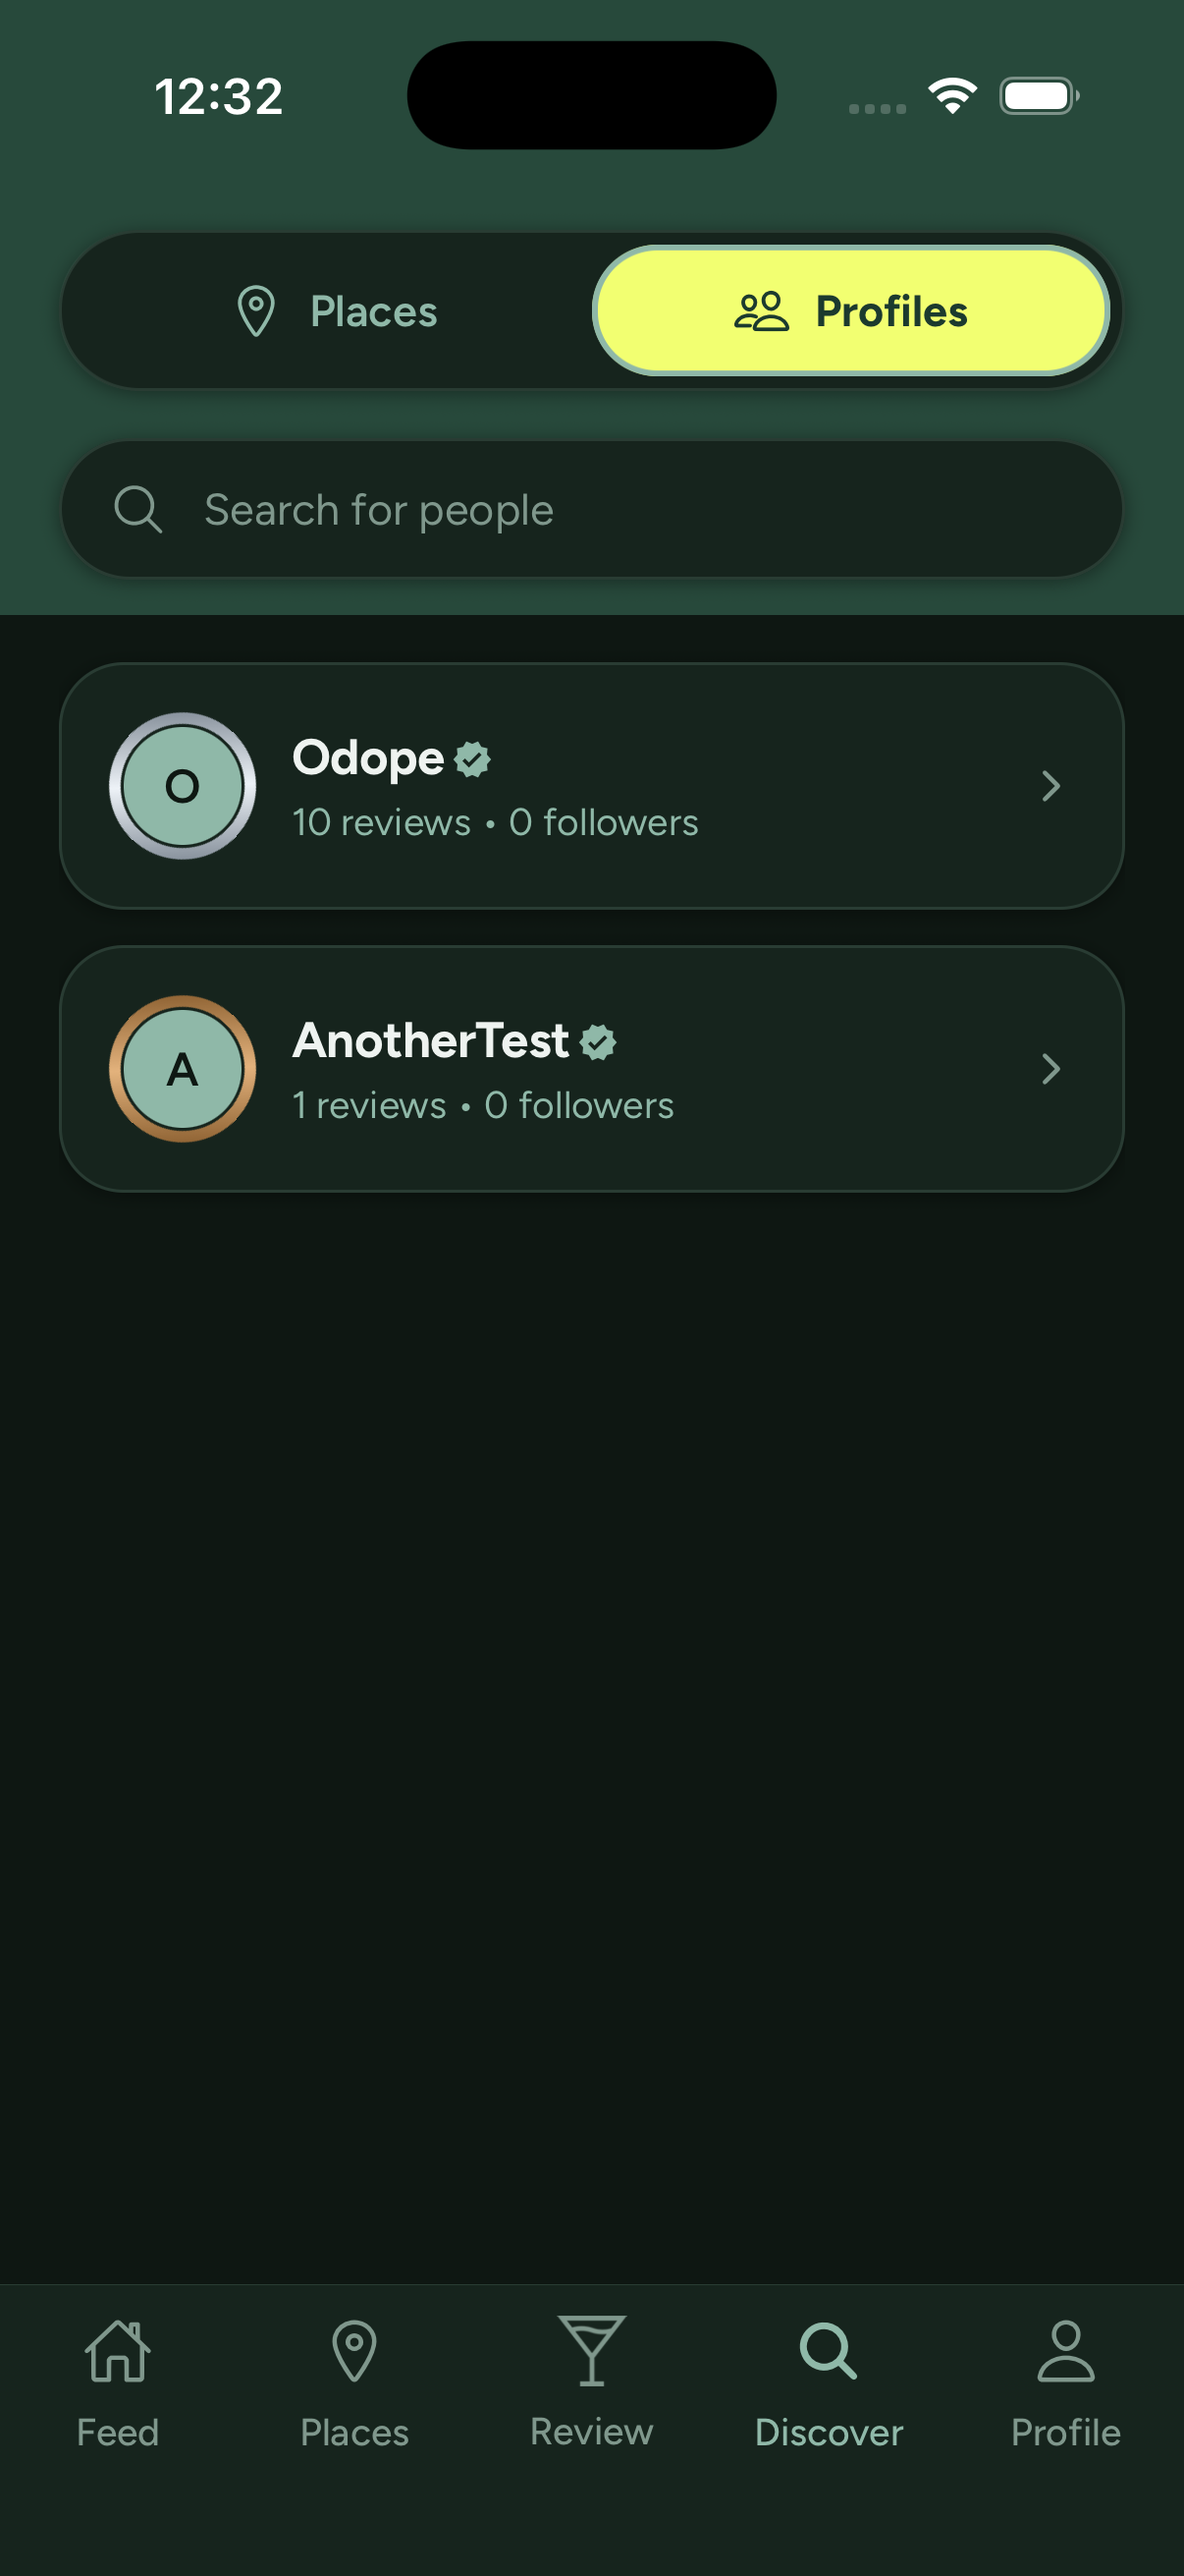
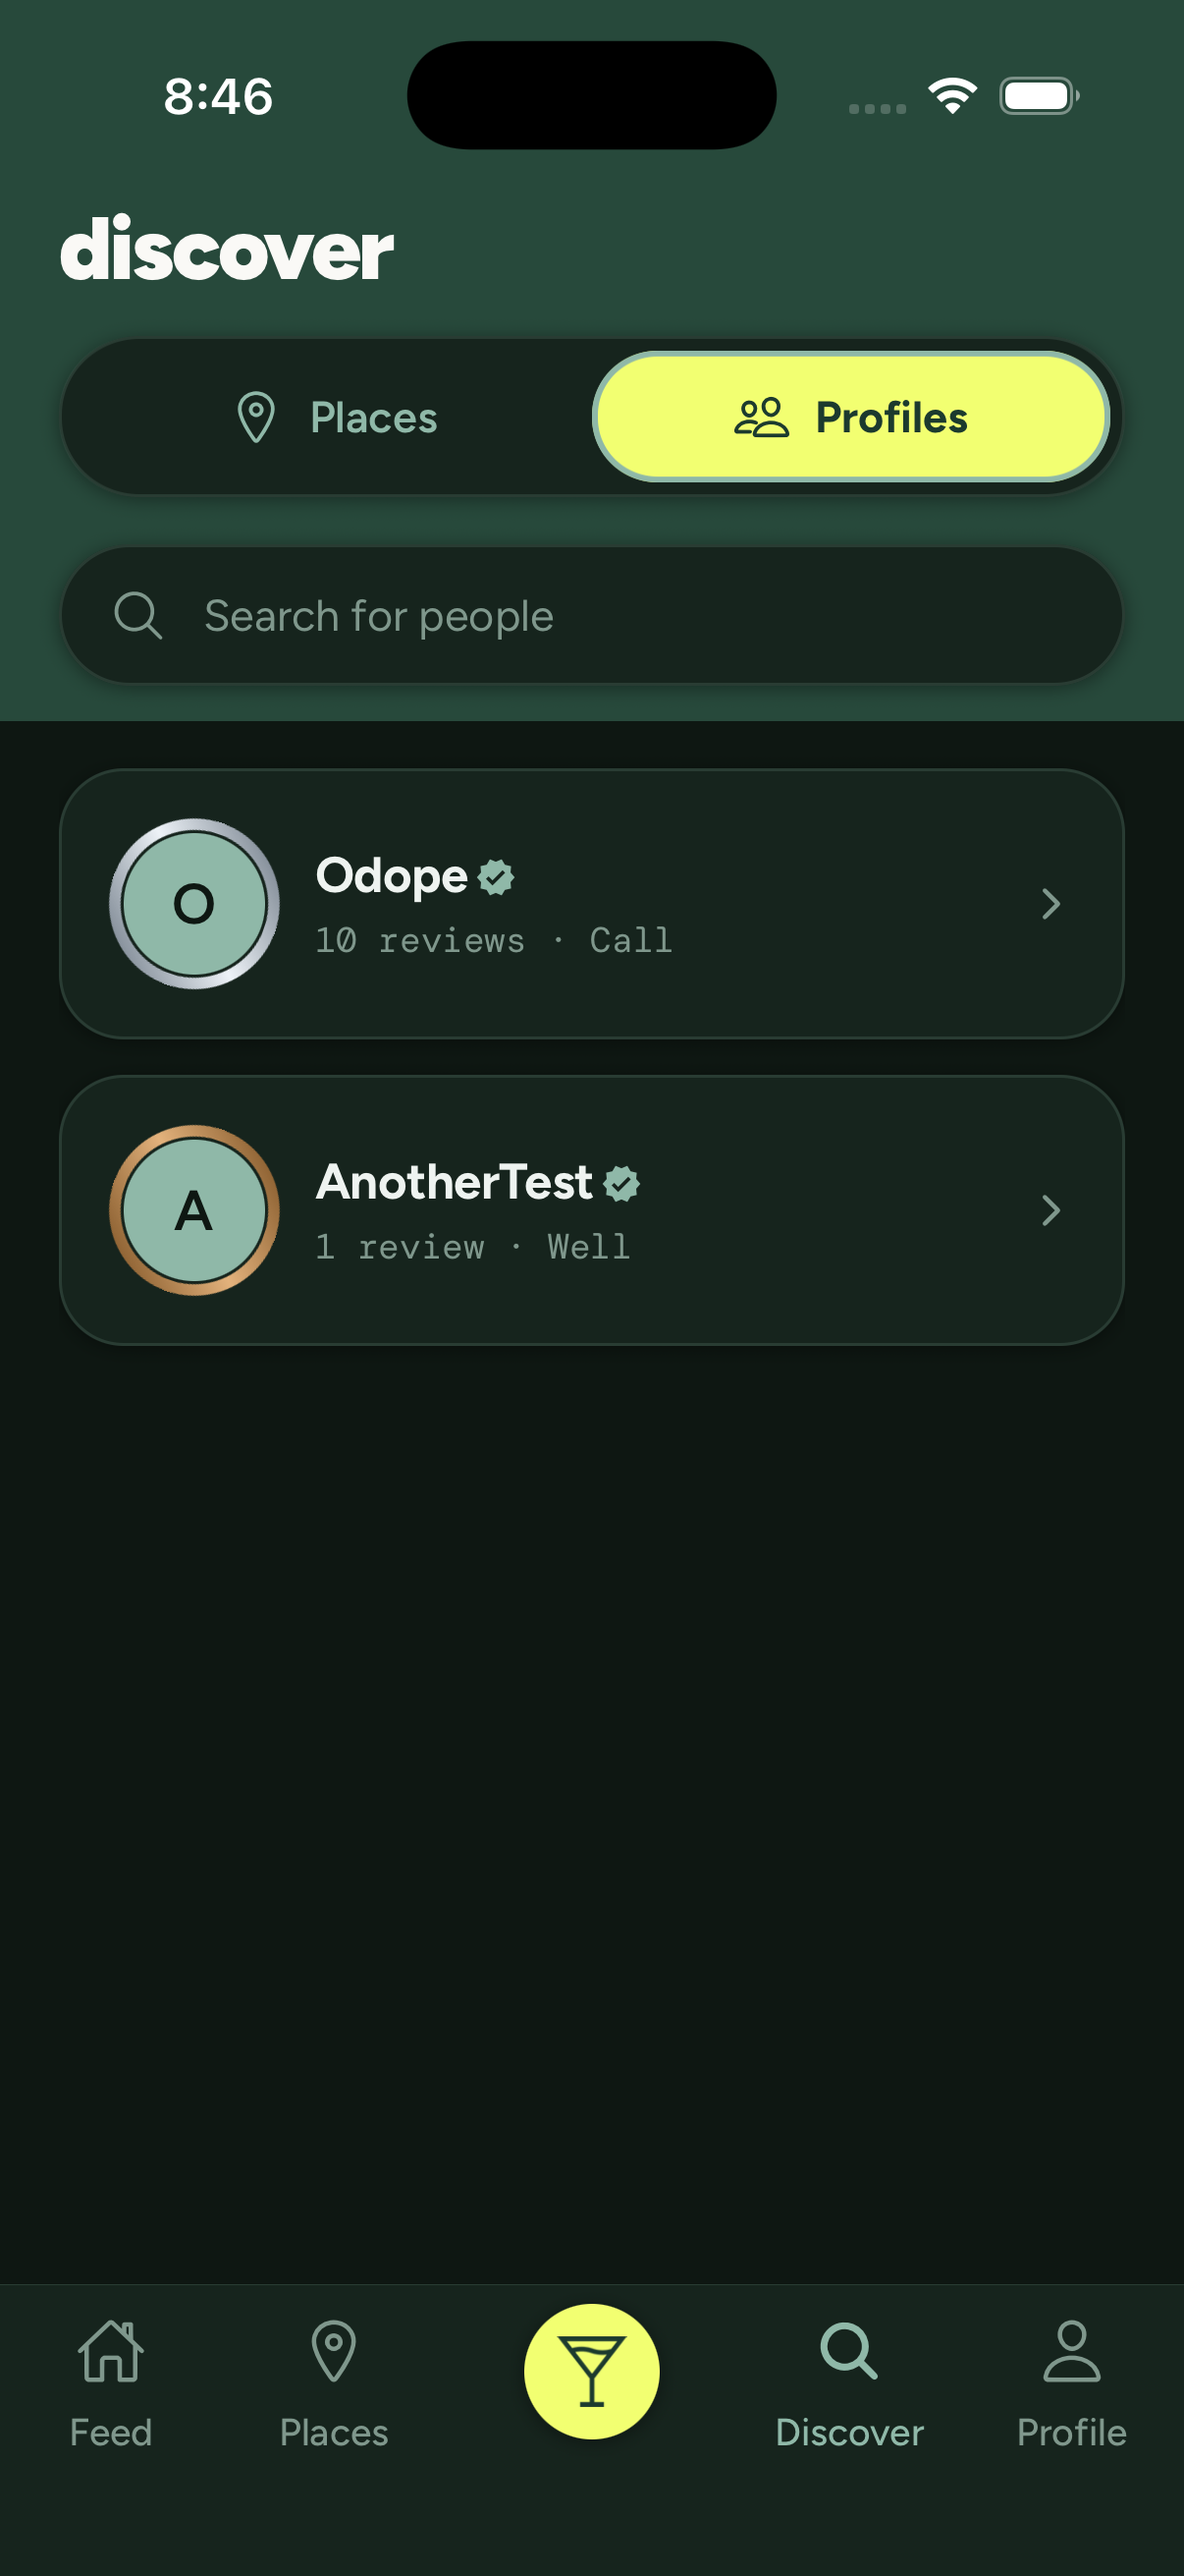
Re-capture every screen against the designs, and rewrite the notes
Light and dark for the feed, discover, profile, places, map sheet, place
detail and the composer preview, plus what the second pass changed on each
and what is still outstanding.

diff --git a/docs/screens/after/NOTES.md b/docs/screens/after/NOTES.md
@@ -1,186 +1,156 @@
-# Second-pass review — as-built after the fixes
+# The screens, after
 
-Captures in this folder were taken on iPhone 17 (iOS 26.5) against the
-development backend, on `new-design-system`, after all eight items in
-`REVIEW.md`'s table. Light and dark for every affected screen; two captures
-have no counterpart and say so below.
+Captures taken on iPhone 17 (iOS 26.5) against the development backend, on
+`new-design-system`. Light and dark for every screen the work touched.
 
-One commit per item, in the table's order:
+Two passes are recorded here:
 
-| Commit | Item |
-|---|---|
-| `9c82ceb` | 1 — segment contrast |
-| `a23d80c` | 2 — rank preview |
-| `8bcf9ee` | 3 — feed photo to 4:3 |
-| `d21c3b9` | 4 — meter fill |
-| `29833fa` | 5 — bar header restack |
-| `1b6ea02` | 6 — typographic hero |
-| `ba5ad32` | 6 follow-up — scroll runway |
-| `e2b2970` | 6 follow-up — nav title |
-| `8a15f34` | 7 — name normalisation |
-| `03636eb` | 8 — disabled button |
+1. **The review's eight table items** (`templates/screen-fixes/REVIEW.md`).
+2. **The screens themselves** (`templates/app-screens/AppScreens.dc.html`),
+   which the first pass hadn't been measured against — that is where most of
+   what follows came from.
 
 ---
 
-## 1 — Segment contrast
+# Pass 2 — the screens against `AppScreens.dc.html`
 
-**Files:** `components/DiscoverTabs.tsx`
-
-Both halves now take the system's selected Chip: `highlight` fill, 2px
-`accent` border, `onHighlight` ink. The unselected half is `textSecondary` on
-paper rather than `textMuted`, and reserves the 2px border so selection
-doesn't nudge the labels. The old pairing filled the pill with
-`secondarySubtle` and set the label in `secondary` — chartreuse on
-chartreuse.
-
-**Captures:** `02-discover-*`, `03-discover-profiles-*`.
-
-## 2 — Rank preview
-
-**Files:** `app/(tabs)/(profile)/profile.tsx`, `components/ProfileHeader.tsx`
-
-The swatch row was already behind `__DEV__`, so it was never in a store
-build — but it was in every dev build and in the captures the review was
-written from. It now needs a long-press on the avatar as well
-(`ProfileHeader` gained `onAvatarLongPress`), so the shipped layout runs
-identity → tabs in both cases.
-
-**Captures:** `04-profile-*`; `05-profile-dev-longpress.png` shows the tool
-still reachable (light only — it is a dev affordance, not a shipped screen).
-
-## 3 — Feed photo to 4:3
+## Feed card — `2560f38`
 
 **Files:** `components/ReviewItem.tsx`
 
-The card was at 1:1, not the 4:5 the review measured — either way it ran past
-the fold. Now `PHOTO_HEIGHT = CARD_WIDTH * 3/4`. Like / comment / share and
-the caption clear the tab bar on first paint on a 6.1".
+The card was still the pre-system layout: every score stacked on the photo
+under a scrim. As drawn, it is now
 
-**Flagged:** the drawing's "crop to 4:3 centre on upload" is *not* done. The
-composer stores the capture uncropped (`review.tsx` only compresses), and
-display centre-crops via `contentFit="cover"`, which covers old and new
-uploads identically. Cropping on upload would mean touching the composer,
-which item 3 doesn't name; worth doing separately if the stored bytes matter.
+- a 46pt ringed avatar, the handle, a **mono timestamp**, the tier badge, then
+  the overflow control;
+- a photo carrying **only** the venue on a `scrimStrong` plate (bottom-left)
+  and the spirit/type pills — chartreuse and scrim — bottom-right;
+- **taste and presentation as olives** below the photo under eyebrow labels,
+  with the blended TTC numeral at the right;
+- the caption, then the actions under a hairline at the foot.
 
-**Captures:** `01-feed-*`.
+The two axes had been drawn as *bars*, which is the place aggregate's
+treatment. A review is olives. This is the single biggest correction in the
+pass.
 
-## 4 — Meter fill
+The photo takes the drawn **16:11**, not the 4:3 of pass-1 item 3 — with the
+scores now below the image, 16:11 is what keeps like/comment/share above the
+tab bar. The eye toggle went with the overlay it existed to hide.
 
-**Files:** `theme/tokens.ts`, `components/shared/RatingSummary.tsx`
+**Captures:** `01-feed-*`, `08-composer-preview-light` (same card, composer).
 
-Two new tokens: `ratingFillOnInk` (chartreuse, fixed in both schemes) and
-`ratingTrackOnInk` (18% paper ink, replacing a hardcoded
-`rgba(255,255,255,0.25)`). The meter is the rating accent on both grounds —
-chartreuse on green and on photo scrims, pimento on paper.
+## Place detail — `b8c50e7`
 
-`ratingFill` on paper is unchanged. The prose says "pimento-500 on paper",
-but the drawing's paper column is identical in as-built and proposed, and
-`ratingFill` is deliberately pimento-**600** in `tokens.ts` because 500 misses
-3:1 against the paper-200 track. Drawing wins, token stays.
+**Files:** `components/Location.tsx`, `components/ReviewGrid.tsx` (reused)
 
-**Captures:** `06-bar-detail-*` (on green), `07-map-pin-sheet-*` (on paper),
-`01-feed-*` (on the photo scrim).
+- The aggregates are a **soft-square green card inset on paper**, not a
+  full-bleed band. That is the screen's one flat-colour block.
+- A primary **"Rate the martini here"** under it, as drawn.
+- Reviews are the **three-up grid** the profile uses, under a section header —
+  your call, and it also matches how the rest of the app shows a body of work.
+- The header scrolls away with the grid instead of collapsing in place, which
+  retired the measured-height animation and its scroll-runway workaround. The
+  nav bar still picks up the venue name once the hero has gone.
 
-## 5 — Bar header restack
+**Captures:** `07-bar-detail-*`.
 
-**Files:** `components/shared/RatingSummary.tsx` (new `headline` variant),
-`components/Regulars.tsx` (new `rail` variant + `RegularsRailSkeleton`),
-`components/shared/Avatar.tsx` (new `onInk`), `components/Location.tsx`,
-`components/map/locationDetails.tsx`
+## Profile — `278f437`
 
-Score and each meter take a full-width row; "Presentation" sets at eyebrow
-size and no longer truncates at any width. Regulars became a horizontal rail
-of 42pt ringed avatars under a divider. The sheet keeps the first two rows and
-drops the rail, as drawn.
+**Files:** `components/ProfileHeader.tsx`, `components/ProfileContentTabs.tsx`,
+`components/shared/StatCard.tsx`, `components/shared/AppText.tsx`
 
-`Avatar` gained `onInk` because the initials disc is `accent` — green-700 on
-the green header, a ring around nothing. On ink it takes the sage fill with
-near-black-green initials, the pairing the REVIEW calls for.
+Reviews / followers / following looked nothing like the drawing because the
+whole header was arranged differently. Top to bottom now:
 
-**Flagged:** dropping the rail from the map sheet also drops Regulars from
-that sheet entirely — the sheet used to carry a dense Regulars column. That is
-what the drawing says ("drop the rail and keep the first two rows"), but it is
-a feature removal, not just a relayout. Easy to put back as a rail if you
-disagree.
+- 84pt avatar beside the name (24/900), the **handle in mono**, and the tier
+  as a badge **in that tier's own colour**;
+- a **full-width progress bar labelled at both ends** — "1 review" / "9 to
+  Call" — replacing the unlabelled 4px sliver under the avatar;
+- the three stats as **tiles across the full width**, values in metric and
+  labels as sage eyebrows.
 
-**Captures:** `06-bar-detail-*`, `07-map-pin-sheet-*`.
+The content tabs became the system's **pill segmented control** (they were
+underlined tabs, which is a different system's idea), and the Regulars tab is
+finally plural.
 
-## 6 — Typographic hero
+**Captures:** `04-profile-*`.
 
-**Files:** `components/Location.tsx`, new
-`components/shared/StickerBadge.tsx`, `components/shared/index.ts`
+## Places and Discover headers — `08d2ee3`
 
-Fixed 230pt `surfaceInkDeep` block: name in the display cut (lowercase,
-dropping a step past 22 characters), street line in mono sage, and the brand
-sticker at −9°, its bottom text set to the city. `StickerBadge` is new —
-`react-native-svg` `TextPath` around the same arcs the web component uses,
-with the olive in the middle. The nav bar takes the same deep green and stops
-repeating the name while the hero is on screen.
+**Files:** `app/(tabs)/(places)/places.tsx`, `components/DiscoverTabs.tsx`,
+`components/map/search.tsx`
 
-Two follow-up commits, both caused by the hero's height:
+Places opened straight onto a full-bleed map — no name, no search, pins under
+the status bar. Discover had a segmented control and never said what screen it
+was. Both now carry the drawn green header: the screen's name in the lowercase
+display cut, search beneath. Places mounts `components/map/search.tsx`, which
+was already written and imported by nothing.
 
-- `ba5ad32` — the header grew by 230pt, and the review list gains all of that
-  back as viewport when the header collapses, so a short list ran out of
-  scroll and the header rested half-faded. The runway now covers the header's
-  own shrink. Cost: a short list has visible blank space at the end.
-- `e2b2970` — returning nothing for `headerTitle` made react-navigation fall
-  back to the route name, so the page opened with "places/[place]" over the
-  hero. The title is rendered and held at zero opacity instead.
+**Captures:** `05-places-*`, `02-discover-places-*`, `03-discover-profiles-*`.
 
-**Captures:** `06-bar-detail-*`.
+## Tab bar and Discover rows — `a2a7d2a`
 
-## 7 — Venue name normalisation
+**Files:** `components/CustomTabBar.tsx`, `components/DiscoverTabs.tsx`
 
-**Files:** new `utils/venueName.ts` (+ `utils/__tests__/venueName.test.ts`),
-`services/placesService.ts`
+The centre tab is the drawn **chartreuse circle**, raised proud of the bar.
+Discover's rows take the drawn line: larger avatar, and one mono line carrying
+the data — "1 review · Well", **pluralised** (pass-1 §6) and with the tier
+named. Place rows show olives and the aggregate inline instead of a second
+score column competing with the name.
 
-Above 80% upper-case letters, a name is title-cased at the service boundary —
-both `mapNewPlace` and the autocomplete mapper. Digit-bearing tokens survive
-as typed, a name made entirely of short/numeric tokens is left alone
-("ONE65 SF"), joiners drop to lowercase unless they lead. `PlaceResult` now
-carries `raw_name` for search matching.
+## Type fixes — `7971e36`, `e2b2970`, `ba5ad32`
 
-**Flagged:** the prose lists `le, la, de` among the joiners, but the drawing
-renders "O' by Claude **Le** Tohic" — capitalised. The joiner list is
-`and, at, by, of, on, the`, which reproduces all three drawn examples exactly.
-Add the French articles if the prose was the intent.
-
-**Captures:** `08-venue-names-normalised.png` — the live nearby list showing
-"O' by Claude Le Tohic" and "ONE65 San Francisco" (light only; this is a list
-of strings, not a treatment).
-
-## 8 — Disabled button
-
-**Files:** `components/shared/Button.tsx`, `app/(tabs)/review.tsx`
-
-`Button` was already filling with `disabledSurface` but kept the variant's
-own text colour, so a disabled primary set paper-050 on paper-100. Disabled
-now pairs `disabledSurface` with `disabledText` in every variant, and takes a
-`disabledReason` rendered under the control (and used as the accessibility
-hint). The composer's Save caption button came off its own half-opacity pill
-onto the shared `Button`, label sentence-cased as drawn.
-
-**Captures:** `09-disabled-save-caption-*`.
+- **The aggregate numeral was clipped at the top.** Leading below the point
+  size doesn't tighten type in React Native, it crops the line box. Leading
+  now matches the point size; the tightness comes from negative margin. Same
+  fix on the venue name.
+- The sticker's curved text is sized to the arc, so "North Vancouver" fits.
 
 ---
 
-## Not in the table, seen while capturing
+# Pass 1 — the review's table
 
-Review §6 and review item 5 are not rows in the implementation table, so they
-were not built. All still reproduce:
+| Commit | Item | Files |
+|---|---|---|
+| `9c82ceb` | 1 — segment contrast | `DiscoverTabs.tsx` |
+| `a23d80c` | 2 — rank preview behind a long-press | `profile.tsx`, `ProfileHeader.tsx` |
+| `8bcf9ee` | 3 — feed photo aspect | `ReviewItem.tsx` (since superseded by 16:11) |
+| `d21c3b9` | 4 — meter fill | `theme/tokens.ts`, `RatingSummary.tsx` |
+| `29833fa` | 5 — header restack | `RatingSummary.tsx`, `Regulars.tsx`, `Avatar.tsx`, `Location.tsx`, `locationDetails.tsx` |
+| `1b6ea02` | 6 — typographic hero | `Location.tsx`, `StickerBadge.tsx` |
+| `8a15f34` | 7 — name normalisation | `utils/venueName.ts`, `placesService.ts` |
+| `03636eb` | 8 — disabled button | `Button.tsx`, `review.tsx` |
 
-- **Review item 5** — overlay copy still floats on a gradient rather than a
-  solid `scrimStrong` plate (`01-feed-*`). This is the one "Decided" item with
-  no table row.
-- **Bio glyph** — the filled white circle above the bio is still there
-  (`04-profile-*`).
-- **"1 reviews"** — Discover's profile rows still don't pluralise
-  (`03-discover-profiles-*`).
-- **"Regular" tab** — still singular on the profile (`04-profile-*`).
-- **Follow button** — not re-checked; it needs another member's profile.
+Both halves of the Discover segment take the selected Chip's chartreuse fill,
+2px green border and green ink; the meter is `ratingFillOnInk` (chartreuse) on
+green and photo scrims and the pimento on paper; the venue header stacks
+full-width rows so "Presentation" can't truncate; venue names are title-cased
+at the Places boundary with `raw_name` kept for search; disabled controls take
+`disabledSurface` + `disabledText` and state their reason.
+
+---
+
+## Flagged
+
+- **The white circle on the profile is data, not a bug.** Pass-1 §6 called it a
+  "bio glyph"; it is the member's own `name` field, which contains a
+  white-circle character. Nothing to fix in the app.
+- **Upload-side cropping still isn't done.** The composer stores the capture
+  uncropped and the card centre-crops on display, which covers old and new
+  uploads identically.
+- **The map sheet has no Regulars.** Dropping the rail there is what the
+  screen-fixes drawing says, but it removed a feature rather than relaying it.
+- **Not built:** the place page's Reviews / Info segmented control (the info
+  screen already has a nav button), the Places screen's filter icon and chip
+  row (no filter feature exists to wire them to), and review item 5's
+  `scrimStrong` plate — which the feed card's rebuild makes moot, since no
+  copy sits on the photo any more except the two chips, both of which carry
+  their own plate.
+- **The composer is still a five-step wizard**, where the design draws one
+  page. That is a product decision older than this pass; the purple taste
+  block and paper presentation block inside it do follow the system.
 
 ## Checks
 
-`npm test` — 197 passed, 15 suites. `npx tsc --noEmit` — clean.
-`npx eslint` on the touched files — 0 errors (warnings are the pre-existing
-`fontSize`/`react-hooks` ones).
+`npm test` — 197 passed, 15 suites. `npx tsc --noEmit` — clean. `npx eslint` on
+the touched files — 0 errors.
